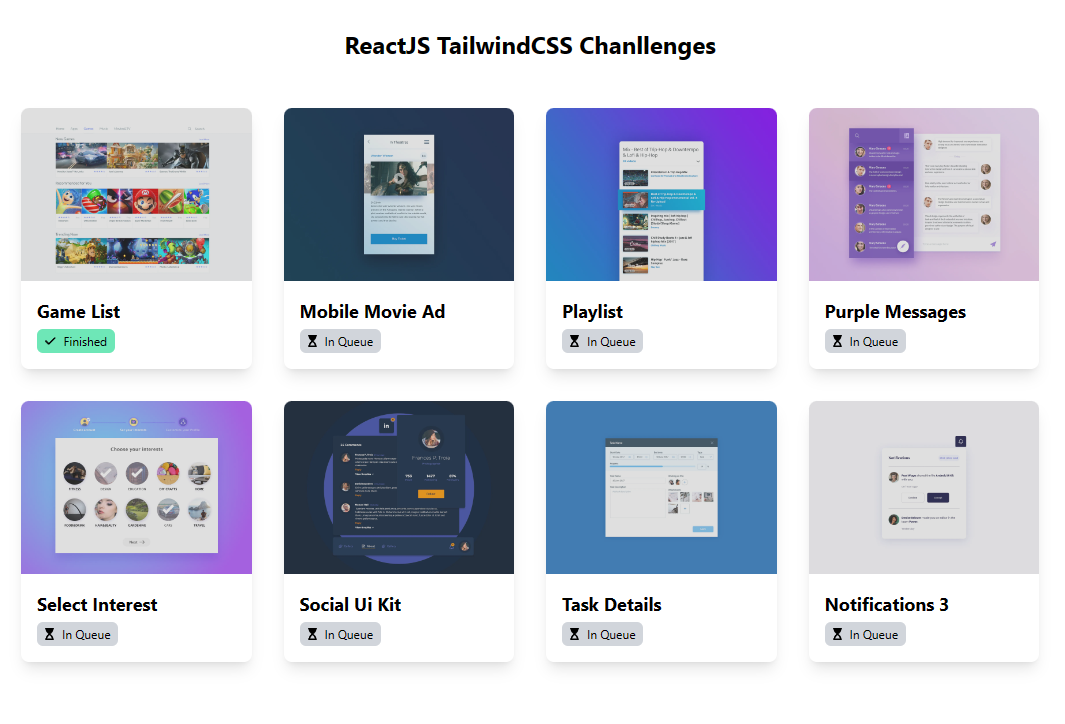
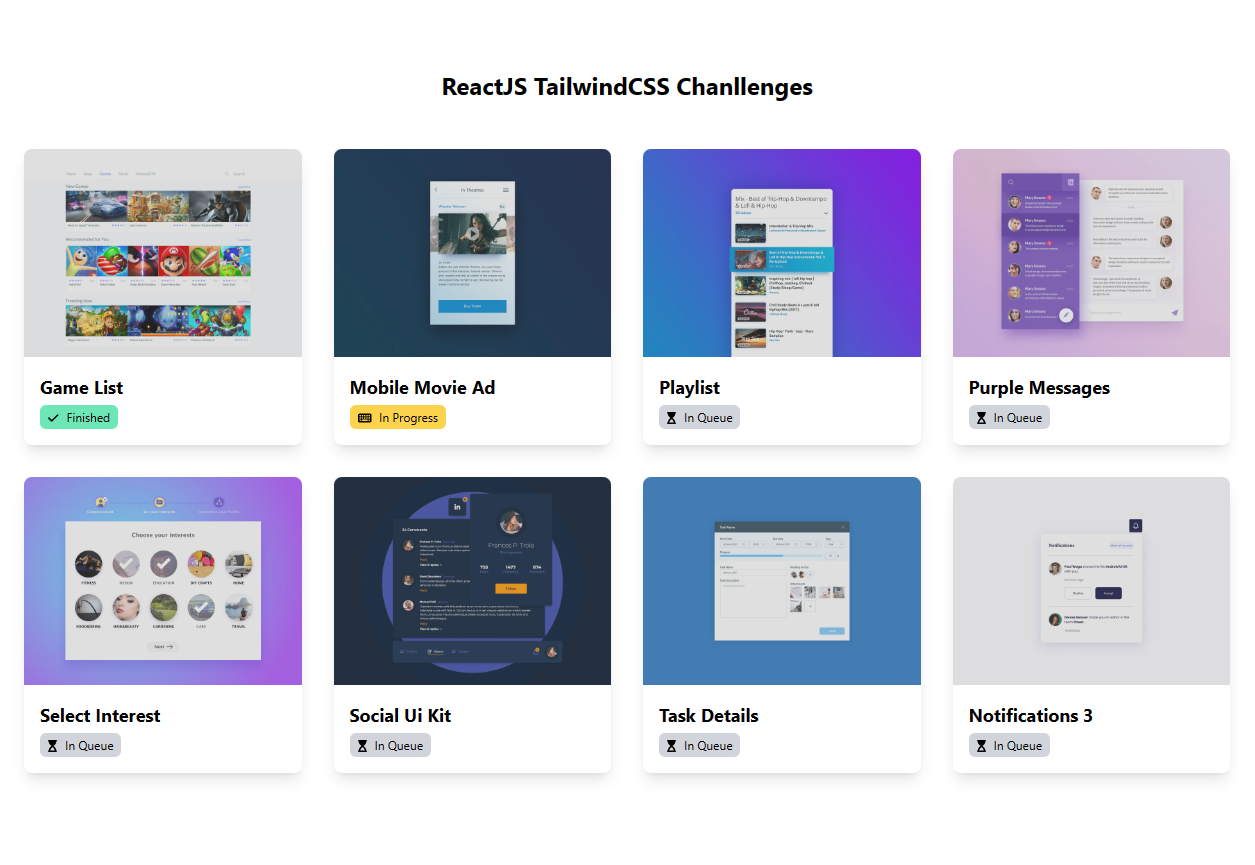
#MobileMovieAd: challenge started.

diff --git a/challenges/index.ts b/challenges/index.ts
@@ -18,7 +18,7 @@ export default [
         name: 'Mobile Movie Ad',
         path: 'mobile-movie-ad',
         image: MobileMovieAdPreviewImage,
-        status: 'In Queue'
+        status: 'In Progress'
     },
     {
         name: 'Playlist',
